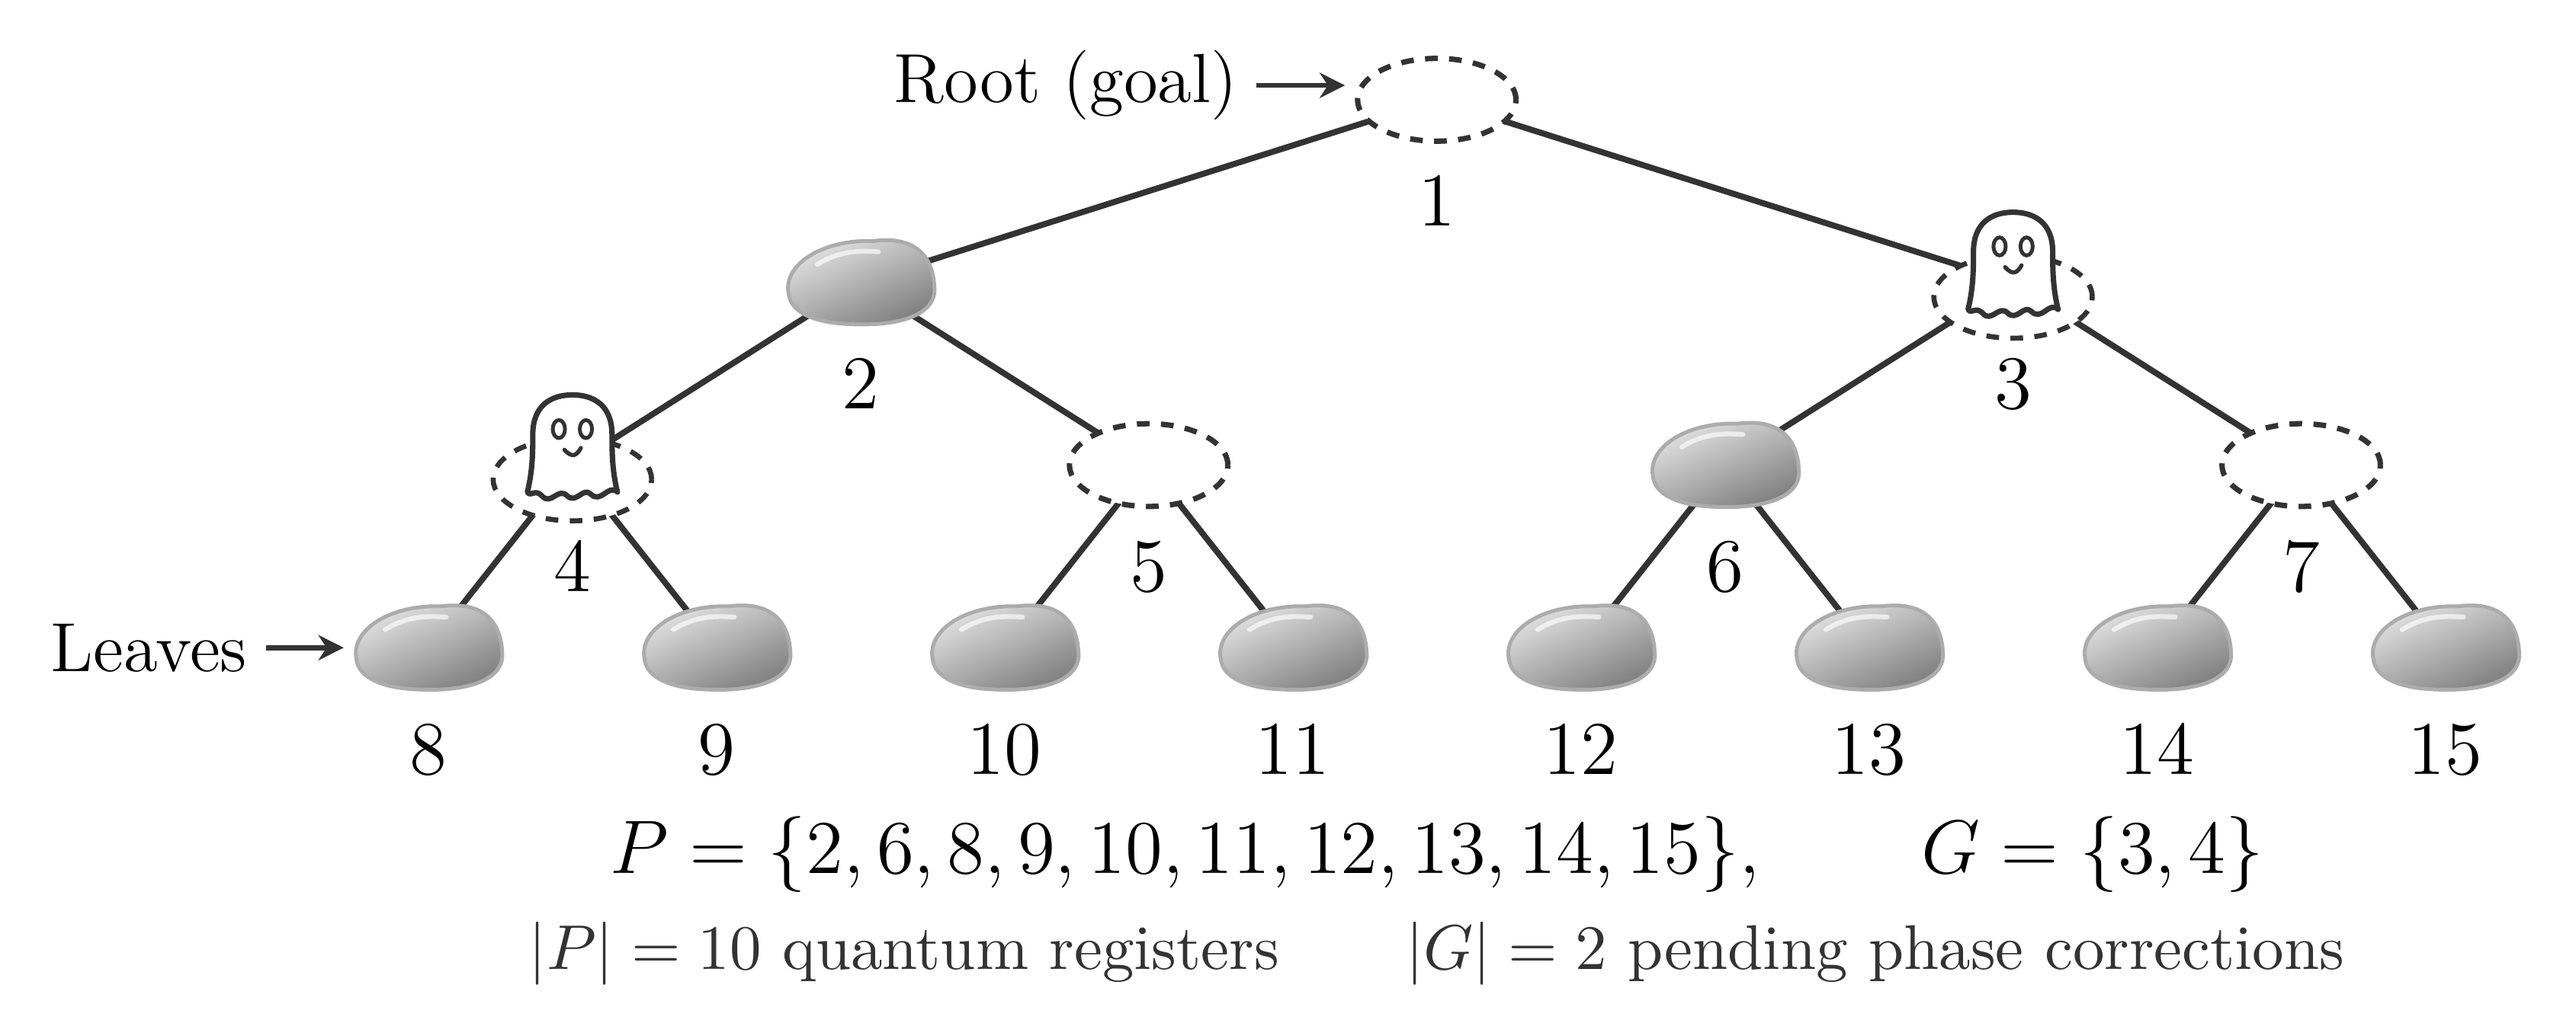
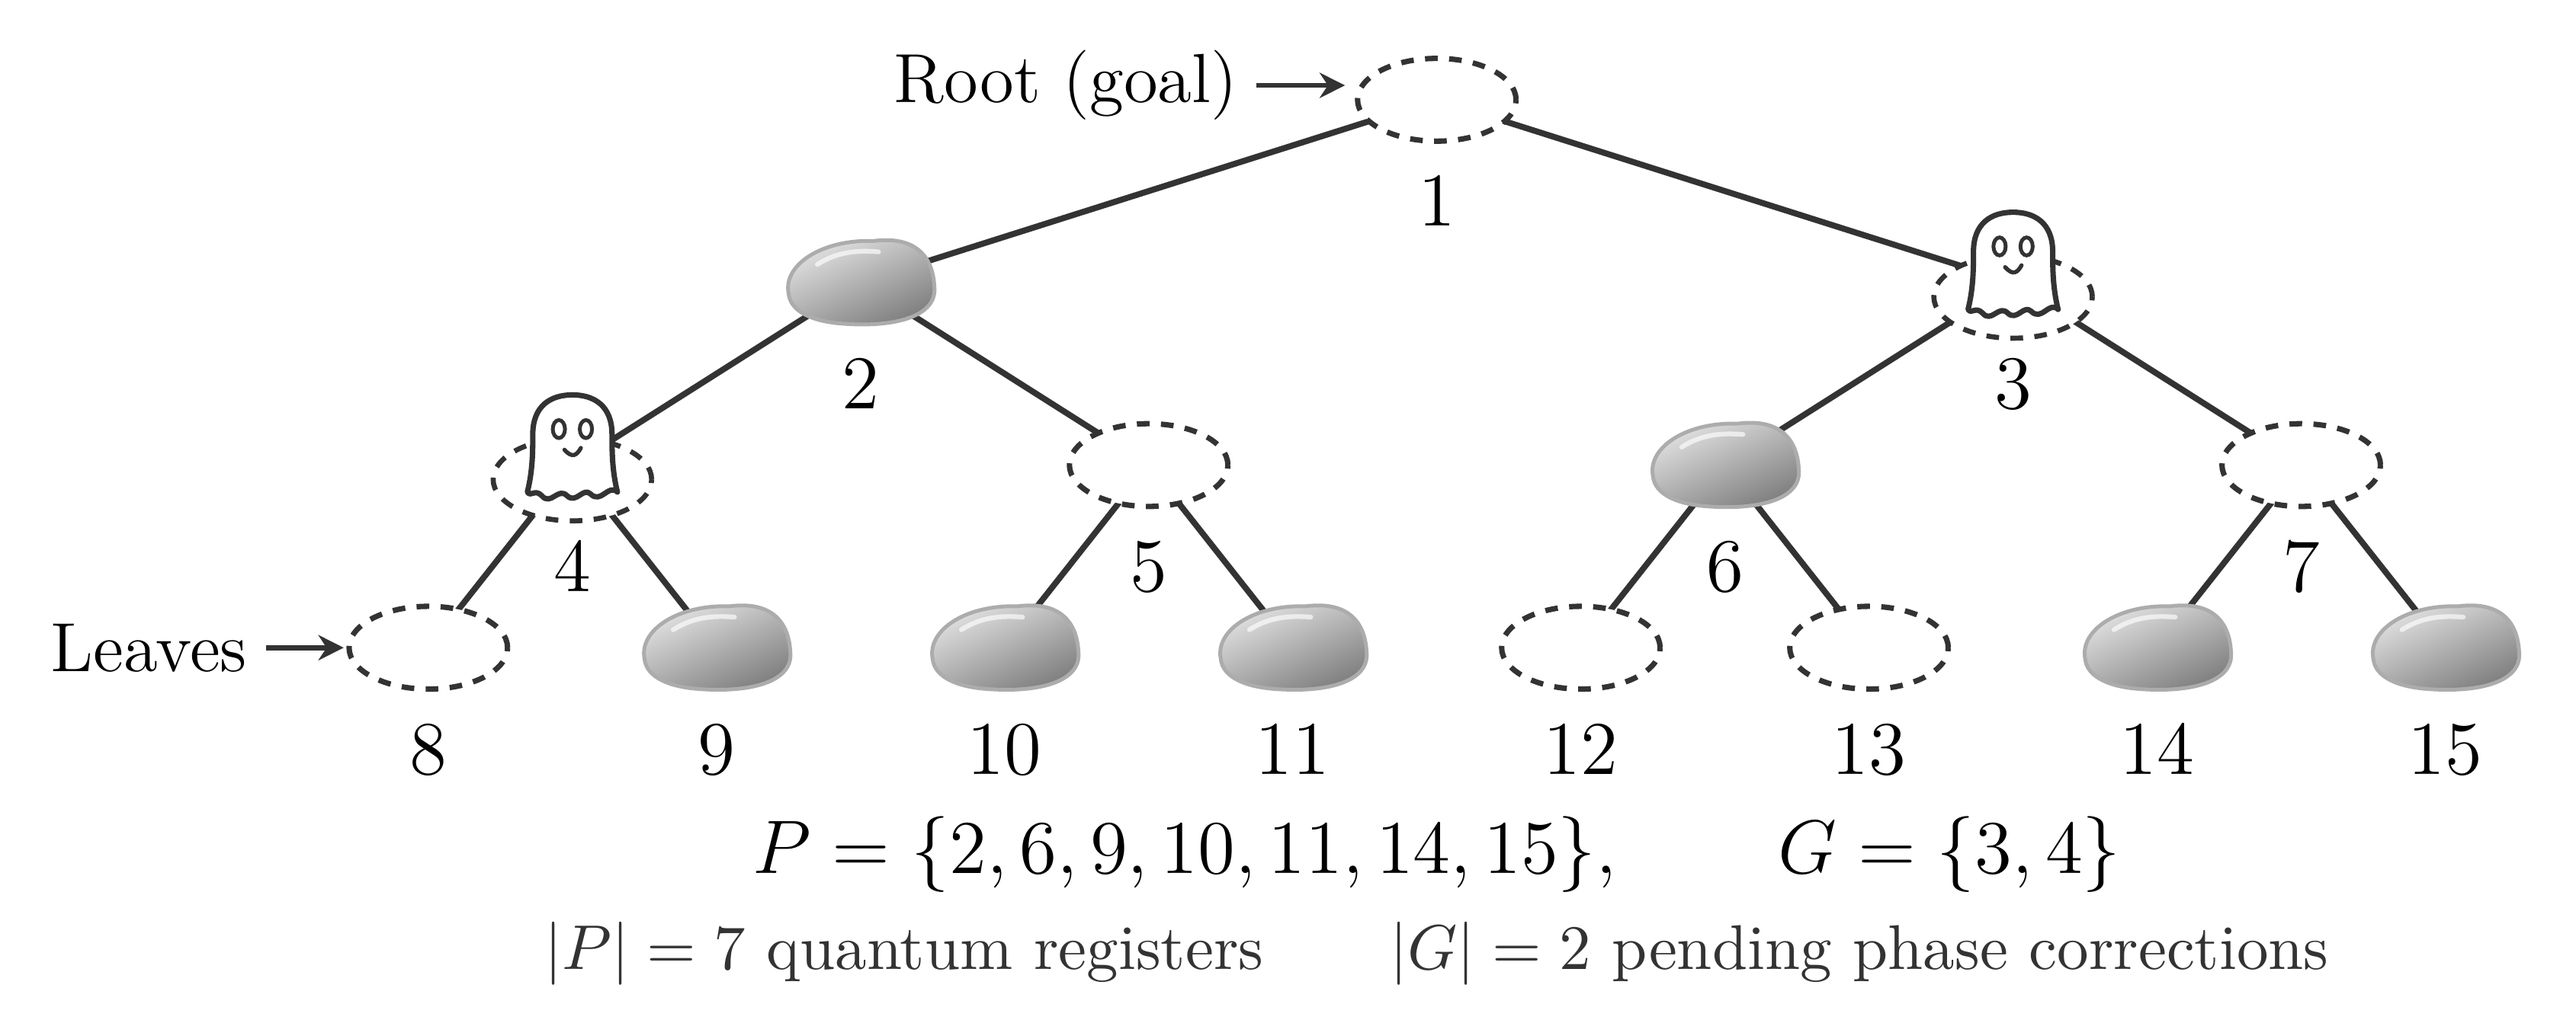
Remove pebbles from leaves 8, 12, and 13 in concept figure

diff --git a/figs/binary_pebbling_concept_tikz.tex b/figs/binary_pebbling_concept_tikz.tex
@@ -6,9 +6,9 @@
 
 % Breadth-first (binary-heap) numbering: the children of v are 2v and 2v+1.
 % These lists control both the tree symbols and the displayed configuration.
-\newcommand{\PebbledVertices}{2,6,8,9,10,11,12,13,14,15}
+\newcommand{\PebbledVertices}{2,6,9,10,11,14,15}
 \newcommand{\GhostVertices}{3,4}
-\newcommand{\EmptyVertices}{1,5,7}
+\newcommand{\EmptyVertices}{1,5,7,8,12,13}
 
 \definecolor{edgegray}{gray}{0.20}
 \definecolor{pebblegray}{gray}{0.49}
@@ -94,11 +94,11 @@
   \draw[edgegray,line width=0.8pt,-{Stealth[length=4pt,width=4pt]}]
     (-6.50,-3.045) -- (-6.07,-3.045);
 
-  % The displayed snapshot has ten stored values and two pending corrections.
+  % The displayed snapshot has seven stored values and two pending corrections.
   \node[font=\fontsize{12}{15}\selectfont,inner sep=0pt] at (0,-4.195)
     {$P=\{\PebbledVertices\},\qquad G=\{\GhostVertices\}$};
   \node[font=\fontsize{10}{12}\selectfont,inner sep=0pt,text=edgegray]
     at (0,-4.745)
-    {$|P|=10$ quantum registers\qquad $|G|=2$ pending phase corrections};
+    {$|P|=7$ quantum registers\qquad $|G|=2$ pending phase corrections};
 \end{tikzpicture}
 \end{document}
